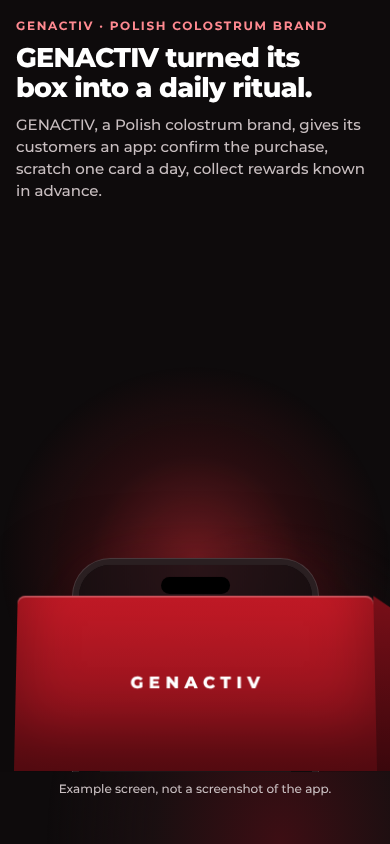
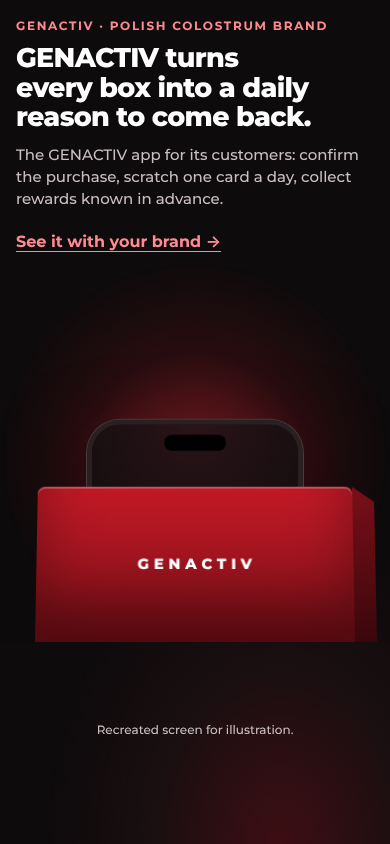
work/genactiv: przebieg 1 — poprawki po recenzji 19 i czytelniku 20

diff --git a/app/work/genactiv/GenactivClient.tsx b/app/work/genactiv/GenactivClient.tsx
@@ -23,18 +23,18 @@ type Copy = { kicker: string; title: string; sub: string }
 const COPY: Copy[] = [
   {
     kicker: 'GENACTIV · Polish colostrum brand',
-    title: 'GENACTIV turned its box into a daily ritual.',
-    sub: 'GENACTIV, a Polish colostrum brand, gives its customers an app: confirm the purchase, scratch one card a day, collect rewards known in advance.',
+    title: 'GENACTIV turns every box into a daily reason to come back.',
+    sub: 'The GENACTIV app for its customers: confirm the purchase, scratch one card a day, collect rewards known in advance.',
   },
   {
     kicker: 'The problem',
-    title: 'Customers stop halfway through the pack.',
-    sub: 'The daily habit fades mid-month, and the second order does not come.',
+    title: 'The risk: the habit fades halfway through the pack.',
+    sub: 'Without a daily reason, the second order never comes.',
   },
   {
     kicker: 'Step 1 · Proof of purchase',
-    title: 'Purchase proof from any shop.',
-    sub: 'The customer scans the code on the box or the shop receipt. The receipt stays on the phone.',
+    title: 'Proof of purchase from the box or the receipt.',
+    sub: 'The customer scans the box code or the shop receipt. The receipt photo stays on the phone.',
   },
   {
     kicker: 'Step 2 · Card of the day',
@@ -121,7 +121,7 @@ function Scratch({ auto, revealed, onDone }: { auto: boolean; revealed: boolean;
     g.font = `700 ${Math.round(12 * dpr)}px Montserrat, system-ui, sans-serif`
     g.textAlign = 'center'
     g.textBaseline = 'middle'
-    g.fillText('S C R A T C H', c.width / 2, c.height / 2)
+    g.fillText('DRAG TO SCRATCH', c.width / 2, c.height / 2)
   }, [])
 
   useEffect(() => {
@@ -282,8 +282,8 @@ function ScreenFade({ p }: { p: number }) {
         </div>
       </div>
       <div className="ga-reorder" style={{ opacity: 0.35 + 0.65 * dim }}>
-        <span>Next order</span>
-        <b>none</b>
+        <span>Next-order reward</span>
+        <b>not yet</b>
       </div>
     </div>
   )
@@ -300,7 +300,7 @@ function ScreenScan({ p }: { p: number }) {
             <i key={i} style={{ width: `${(w * 0.16).toFixed(2)}em` }} />
           ))}
         </div>
-        <div className="ga-beam" style={{ top: `${(8 + scan * 84).toFixed(1)}%` }} />
+        <div className="ga-beam" style={{ backgroundPosition: `0 ${(scan * 100).toFixed(1)}%` }} />
       </div>
       <div className="ga-receipt">
         <i />
@@ -345,12 +345,25 @@ function ScreenScratch({
         </div>
         <Scratch auto={auto} revealed={revealed} onDone={onDone} />
       </div>
+      <div className={'ga-hint' + (revealed ? ' ga-hint-off' : '')} aria-hidden="true">
+        <svg viewBox="0 0 24 24" width="16" height="16">
+          <path d="M9 11V5a1.5 1.5 0 0 1 3 0v5h.5V8.5a1.5 1.5 0 0 1 3 0V11h.5v-1a1.5 1.5 0 0 1 3 0v5c0 3.3-2.7 6-6 6h-1.2a6 6 0 0 1-4.8-2.4L3.6 14.4a1.5 1.5 0 0 1 2.3-1.9L9 15V11z" fill="currentColor" />
+        </svg>
+        Drag to scratch
+      </div>
     </div>
   )
 }
 
-function ScreenMonth({ p, live }: { p: number; live: boolean }) {
-  const lit = live ? Math.round(clamp(p / 0.85) * DAYS) : DAYS
+function ScreenMonth({ p, live, from = 0 }: { p: number; live: boolean; from?: number }) {
+  // od dnia zdrapanego w akcie 3 (+1) do 24, przytrzymanie ~0,4 ekranu na pieczatce, potem do 30
+  const lit = !live
+    ? DAYS
+    : p < 0.32
+      ? Math.round(from + smooth(p / 0.32) * (STAMP_DAY - from))
+      : p < 0.72
+        ? STAMP_DAY
+        : Math.round(STAMP_DAY + smooth((p - 0.72) / 0.2) * (DAYS - STAMP_DAY))
   const stamp = lit >= STAMP_DAY
   return (
     <div className="ga-scr" aria-hidden="true">
@@ -428,15 +441,29 @@ export function GenactivStory() {
   }, [])
 
   const done = useCallback(() => setRevealed(true), [])
+  const heroLink = (
+    <a className="ga-link" href="/nawyko">
+      See it with your brand →
+    </a>
+  )
+  // Przycisk osiagalny Tabem w kazdym trybie: fokus przewija scene do aktu zdrapki.
+  const toScratch = () => {
+    const el = track.current
+    if (mode !== 'scroll' || !el) return
+    const r = el.getBoundingClientRect()
+    const span = r.height - window.innerHeight
+    const y = window.scrollY + r.top + (3.4 / ACTS) * span
+    if (Math.abs(window.scrollY - y) > span / ACTS / 3) window.scrollTo({ top: y })
+  }
   const reveal = (
-    <button type="button" className="ga-btn" onClick={done} disabled={revealed}>
+    <button type="button" className="ga-btn" onClick={done} onFocus={toScratch} aria-disabled={revealed}>
       {revealed ? 'Card revealed' : 'Reveal without scratching'}
     </button>
   )
 
   if (mode === 'still') {
     return (
-      <div className="ga-still">
+      <div className="ga-still" key="still">
         {COPY.map((c, i) => (
           <section key={i} className={'ga-act ga-act-' + i} aria-labelledby={'ga-t' + i}>
             <div className="ga-copy-in">
@@ -447,6 +474,7 @@ export function GenactivStory() {
                 <h2 id={'ga-t' + i}>{c.title}</h2>
               )}
               <p className="ga-sub">{c.sub}</p>
+              {i === 0 ? heroLink : null}
               {i === 3 ? reveal : null}
             </div>
             <figure className="ga-fig">
@@ -466,7 +494,7 @@ export function GenactivStory() {
                   </div>
                 ) : null}
               </div>
-              <figcaption>Example screen, not a screenshot of the app.</figcaption>
+              <figcaption>Recreated screen for illustration.</figcaption>
             </figure>
           </section>
         ))}
@@ -488,42 +516,45 @@ export function GenactivStory() {
 
   return (
     <>
-    <div className="ga-track" ref={track}>
+    <div className="ga-track" key="track" ref={track}>
       <div className="ga-stage">
         <div className="ga-copy">
           {COPY.map((c, i) => {
-            const o = vis(i)
+            // Jeden aktywny tekst na klatke (krycie 1), wejscie samym przesunieciem: zawsze jeden naglowek >= 0,9.
+            const on = i === act
+            const enter = on && i > 0 ? 1 - smooth(local / 0.1) : 0
             return (
               <article
                 key={i}
                 className="ga-copy-in"
                 aria-labelledby={'ga-t' + i}
+                inert={!on && i !== 3}
                 style={{
-                  opacity: o,
-                  visibility: o < 0.02 ? 'hidden' : 'visible',
-                  transform: `translateY(${((1 - o) * (i < act || (i === act && local > 0.5) ? -16 : 16)).toFixed(1)}px)`,
+                  opacity: on ? 1 : 0,
+                  transform: `translateY(${(enter * 18).toFixed(1)}px)`,
                 }}
               >
                 <p className="ga-kicker">{c.kicker}</p>
                 {i === 0 ? <h1 id={'ga-t' + i}>{c.title}</h1> : <h2 id={'ga-t' + i}>{c.title}</h2>}
                 <p className="ga-sub">{c.sub}</p>
+                {i === 0 ? heroLink : null}
                 {i === 3 ? reveal : null}
               </article>
             )
           })}
         </div>
         <figure className="ga-fig">
-          <div className="ga-phone-slot">
+          <div className="ga-phone-slot" style={{ transform: `translateY(${(-(1 - p0) * 16).toFixed(2)}%)` }}>
             <div className="ga-glow" style={{ opacity: 1 - 0.55 * boxOut }} />
-            <div className="ga-phone" style={{ transform: `translateY(${((1 - p0) * 58).toFixed(2)}%)` }}>
+            <div className="ga-phone" style={{ transform: `translateY(${((1 - p0) * 50).toFixed(2)}%)` }}>
               <div className="ga-notch" />
               {[0, 1, 2, 3, 4].map((i) => (
-                <div key={i} className="ga-layer" style={{ opacity: vis(i), visibility: vis(i) < 0.02 ? 'hidden' : 'visible' }}>
+                <div key={i} className="ga-layer" inert={vis(i) < 0.5} style={{ opacity: vis(i) }}>
                   {i === 0 ? <ScreenHome /> : null}
                   {i === 1 ? <ScreenFade p={act === 1 ? local : act > 1 ? 1 : 0} /> : null}
                   {i === 2 ? <ScreenScan p={act === 2 ? local : act > 2 ? 1 : 0} /> : null}
                   {i === 3 ? <ScreenScratch auto={act === 3} revealed={revealed} onDone={done} /> : null}
-                  {i === 4 ? <ScreenMonth p={act === 4 ? local : 0} live /> : null}
+                  {i === 4 ? <ScreenMonth p={act === 4 ? local : 0} live from={revealed ? 1 : 0} /> : null}
                 </div>
               ))}
             </div>
@@ -534,7 +565,7 @@ export function GenactivStory() {
               <Box />
             </div>
           </div>
-          <figcaption>Example screen, not a screenshot of the app.</figcaption>
+          <figcaption>Recreated screen for illustration.</figcaption>
         </figure>
       </div>
     </div>

diff --git a/app/work/genactiv/genactiv.css b/app/work/genactiv/genactiv.css
@@ -75,7 +75,10 @@ body:has(.ga) { overflow-x: visible; max-width: none; background: #0e0b0c; color
   font: 600 15px/1 'Montserrat', system-ui, sans-serif; cursor: pointer;
 }
 .ga-btn:hover:not(:disabled) { background: var(--surface); }
-.ga-btn:disabled { border-color: #5a4a4d; color: var(--muted); cursor: default; }
+.ga-btn[aria-disabled='true'] { border-color: #5a4a4d; color: var(--muted); cursor: default; }
+.ga-link { margin-top: 22px; align-self: flex-start; color: var(--accent-hi) !important; font-weight: 700; font-size: 16px; text-decoration: underline; text-underline-offset: 4px; }
+.ga-hint { align-self: center; display: inline-flex; align-items: center; gap: 0.5em; color: var(--muted); font-weight: 600; }
+.ga-hint-off { opacity: 0; }
 
 /* ---------- Telefon ---------- */
 .ga-fig { margin: 0; display: flex; flex-direction: column; align-items: center; justify-content: center; gap: 16px; }
@@ -118,7 +121,7 @@ body:has(.ga) { overflow-x: visible; max-width: none; background: #0e0b0c; color
 .ga-ring-wrap { position: relative; width: 100%; aspect-ratio: 1; }
 .ga-ring { position: absolute; inset: 0; width: 100%; height: 100%; }
 .ga-ring-mid { position: absolute; inset: 0; display: flex; flex-direction: column; align-items: center; justify-content: center; }
-.ga-ring-mid b { font-size: 3.4em; font-weight: 800; line-height: 1; font-variant-numeric: tabular-nums; }
+.ga-ring-mid b { min-width: 2ch; text-align: center; font-size: 3.4em; font-weight: 800; line-height: 1; font-variant-numeric: tabular-nums; }
 .ga-ring-mid span { color: var(--muted); font-weight: 600; margin-top: 0.3em; }
 .ga-reorder { display: flex; justify-content: space-between; background: var(--surface); border-radius: 1em; padding: 0.9em 1em; font-weight: 700; }
 .ga-reorder b { color: var(--accent-hi); }
@@ -130,8 +133,11 @@ body:has(.ga) { overflow-x: visible; max-width: none; background: #0e0b0c; color
 }
 .ga-bars { display: flex; gap: 0.12em; height: 44%; background: var(--paper); padding: 0.6em 0.9em; border-radius: 0.3em; }
 .ga-bars i { display: block; background: var(--ink); }
-.ga-beam { position: absolute; left: 6%; right: 6%; top: 8%; height: 2px; pointer-events: none; }
-.ga-beam::after { content: ''; position: absolute; left: 0; right: 0; top: 0; height: 2px; background: var(--accent); box-shadow: 0 0 12px 3px rgba(245, 51, 63, 0.6); }
+.ga-beam { /* linia skanu przez background-position: bez przesuniec ukladu */
+  position: absolute; left: 6%; right: 6%; top: 8%; height: 84%; pointer-events: none;
+  background: linear-gradient(180deg, transparent 0, rgba(245, 51, 63, 0.35) 40%, #f5333f 46%, #f5333f 54%, rgba(245, 51, 63, 0.35) 60%, transparent 100%) no-repeat;
+  background-size: 100% 14px;
+}
 .ga-receipt {
   align-self: center; width: 62%; background: var(--paper); padding: 0.9em 1em; display: flex; flex-direction: column; gap: 0.5em;
   clip-path: polygon(0 0, 100% 0, 100% 100%, 92% 94%, 84% 100%, 76% 94%, 68% 100%, 60% 94%, 52% 100%, 44% 94%, 36% 100%, 28% 94%, 20% 100%, 12% 94%, 4% 100%, 0 94%);
@@ -149,6 +155,7 @@ body:has(.ga) { overflow-x: visible; max-width: none; background: #0e0b0c; color
 .ga-card-under b { font-size: 1.7em; font-weight: 800; color: var(--text); }
 .ga-card-under span { color: var(--muted); font-weight: 600; }
 .ga-foil { position: absolute; inset: 0; width: 100%; height: 100%; touch-action: none; cursor: grab; background: var(--foil); transition: opacity 0.5s ease; }
+.ga-foil:active { cursor: grabbing; }
 .ga-foil.ga-gone { opacity: 0; pointer-events: none; }
 
 .ga-stamp {
@@ -187,7 +194,7 @@ body:has(.ga) { overflow-x: visible; max-width: none; background: #0e0b0c; color
 .ga-box-back { display: none; }
 
 /* ---------- Tryb przewijania: przypieta scena ---------- */
-.ga-track { position: relative; height: 560svh; }
+.ga-track { position: relative; height: 600svh; }
 .ga-stage {
   position: sticky; top: 0; height: 100svh;
   display: grid; grid-template-columns: minmax(0, 1fr) minmax(0, 1fr); align-items: center; gap: 48px;
@@ -234,7 +241,8 @@ body:has(.ga) { overflow-x: visible; max-width: none; background: #0e0b0c; color
   .ga-sub { font-size: 15px; margin-top: 12px !important; line-height: 1.45; }
   .ga-btn { margin-top: 14px; }
 
-  .ga { --ph: min(calc(70svh - 64px - var(--consent-h, 0px)), 500px); }
+  /* stala rezerwa pod pasek cookies (~80 px) zamiast var(--consent-h): zmiana --ph po pomiarze paska = przesuniecie ukladu */
+  .ga { --ph: min(calc(70svh - 150px), 460px); }
   .ga-stage { grid-template-columns: minmax(0, 1fr); grid-template-rows: 30svh minmax(0, 1fr); gap: 0; padding: 18px 16px 10px; align-items: stretch; }
   .ga-stage .ga-fig { justify-content: flex-start; }
   .ga-copy { height: 100%; }

diff --git a/app/work/genactiv/page.tsx b/app/work/genactiv/page.tsx
@@ -1,10 +1,11 @@
 import type { Metadata, Viewport } from 'next'
+import { preload } from 'react-dom'
 import { GenactivStory } from './GenactivClient'
 import './genactiv.css'
 
-const TITLE = 'GENACTIV — a box that became a daily ritual'
+const TITLE = 'GENACTIV — every box, a daily reason to come back'
 const DESC =
-  'GENACTIV, a Polish colostrum brand, gives its customers an app: confirm the purchase, scratch one card a day, collect rewards known in advance.'
+  'The GENACTIV app for its customers: confirm the purchase, scratch one card a day, collect rewards known in advance.'
 
 // noindex + brak w sitemap.ts do zgody GENACTIV na referencje i startu aplikacji w sklepach (spec realizacja-genactiv.md).
 export const metadata: Metadata = {
@@ -21,6 +22,8 @@ export const viewport: Viewport = {
 }
 
 export default function GenactivWork() {
+  // font od pierwszej klatki: zamiana kroju po zaladowaniu przesuwala tekst (CLS)
+  preload('/fonts/montserrat-latin.woff2', { as: 'font', type: 'font/woff2', crossOrigin: 'anonymous' })
   return (
     <div className="ga">
       <a className="ga-skip" href="#main">

diff --git a/agencja/teksty-do-akceptacji.md b/agencja/teksty-do-akceptacji.md
@@ -126,18 +126,19 @@ w `agencja/rubryka-tekstow.md`. Recenzje czytelnika-kupującego: `agencja/recenz
 |---|---|---|
 | nagłówek strony | Rafał Oleksiak · Work · GENACTIV | nowy |
 | akt 0 etykieta | GENACTIV · Polish colostrum brand | nowy |
-| akt 0 H1 | GENACTIV turned its box into a daily ritual. | nowy |
-| akt 0 zdanie | GENACTIV, a Polish colostrum brand, gives its customers an app: confirm the purchase, scratch one card a day, collect rewards known in advance. | nowy |
-| akt 1 etykieta / H2 | The problem / Customers stop halfway through the pack. | nowy |
-| akt 1 zdanie | The daily habit fades mid-month, and the second order does not come. | nowy |
-| akt 2 etykieta / H2 | Step 1 · Proof of purchase / Purchase proof from any shop. | nowy |
-| akt 2 zdanie | The customer scans the code on the box or the shop receipt. The receipt stays on the phone. | nowy |
+| akt 0 H1 | GENACTIV turns every box into a daily reason to come back. | zmieniony (po czytelniku) |
+| akt 0 zdanie | The GENACTIV app for its customers: confirm the purchase, scratch one card a day, collect rewards known in advance. | zmieniony |
+| akt 0 link pod leadem | See it with your brand → | nowy |
+| akt 1 etykieta / H2 | The problem / The risk: the habit fades halfway through the pack. | zmieniony |
+| akt 1 zdanie | Without a daily reason, the second order never comes. | zmieniony |
+| akt 2 etykieta / H2 | Step 1 · Proof of purchase / Proof of purchase from the box or the receipt. | zmieniony |
+| akt 2 zdanie | The customer scans the box code or the shop receipt. The receipt photo stays on the phone. | zmieniony |
 | akt 3 etykieta / H2 | Step 2 · Card of the day / One card a day, after the daily dose. | nowy |
 | akt 3 zdanie | The foil is in GENACTIV colours. Scratch it with a finger or a mouse. | nowy |
 | akt 3 przycisk | Reveal without scratching / (po odkryciu) Card revealed | nowy |
 | akt 4 etykieta / H2 | Step 3 · The month / Rewards are set before day one. | nowy |
 | akt 4 zdanie | Every ticked day fills the ring. The stamp lands on a day the customer knew in advance, never by chance. | nowy |
-| podpis telefonu | Example screen, not a screenshot of the app. | nowy |
-| ekrany (rysunek, aria-hidden) | GENACTIV · Today's card · Rewards · This month · 15 / of 30 days · Next order none · Confirm purchase · Stays on this phone · Today · Day ticked · One step closer to the stamp · SCRATCH · Stamp · Day 24 stamp · (pudełko) GENACTIV | nowy |
+| podpis telefonu | Recreated screen for illustration. | zmieniony |
+| ekrany (rysunek, aria-hidden) | GENACTIV · Today's card · Rewards · This month · 15 / of 30 days · Next-order reward not yet · Drag to scratch (podpowiedź na zdrapce i na folii: DRAG TO SCRATCH) · Confirm purchase · Stays on this phone · Today · Day ticked · One step closer to the stamp · Stamp · Day 24 stamp · (pudełko) GENACTIV | nowy |
 | koniec | See it with your brand → | nowy |
 | stopka | Home · Nawyko · Privacy | nowy |

diff --git a/agencja/specs/realizacja-genactiv.md b/agencja/specs/realizacja-genactiv.md
@@ -60,3 +60,7 @@ z pełną treścią; zdrapka canvas + „Reveal without scratching” + samozdra
 Stan: zbudowane; bramki build, tsc, lint (0 błędów, 1 ostrzeżenie jak przed), copy-voice, qa.js 9/9 PASS, noindex, brak w sitemap.
 Otwarte: czytelnik-kupujący nie przeszedł; copy-voice nie widzi tekstów trasy (są w tablicy `COPY`, test czyta tylko JSX);
 `content-rules` nie obejmuje tras pisanych ręcznie; przycisk zdrapki w trybie sceny osiągalny klawiaturą tylko w akcie 3.
+Poprawki po recenzji 19 i czytelniku 20 (23.11): przycisk zdrapki osiągalny Tabem (`inert` zamiast visibility, fokus przewija
+do aktu zdrapki), surowy CLS przy przewinięciu całej strony 0,0003 (390) / 0,0001 (1440), jeden aktywny nagłówek na klatkę,
+„Drag to scratch”, pierścień od +1 dnia po zdrapaniu, przytrzymanie pieczątki 0,4 aktu, pudełko wyżej + link pod leadem,
+stała rezerwa pod pasek cookies na 390, teksty z listy koordynatora.
